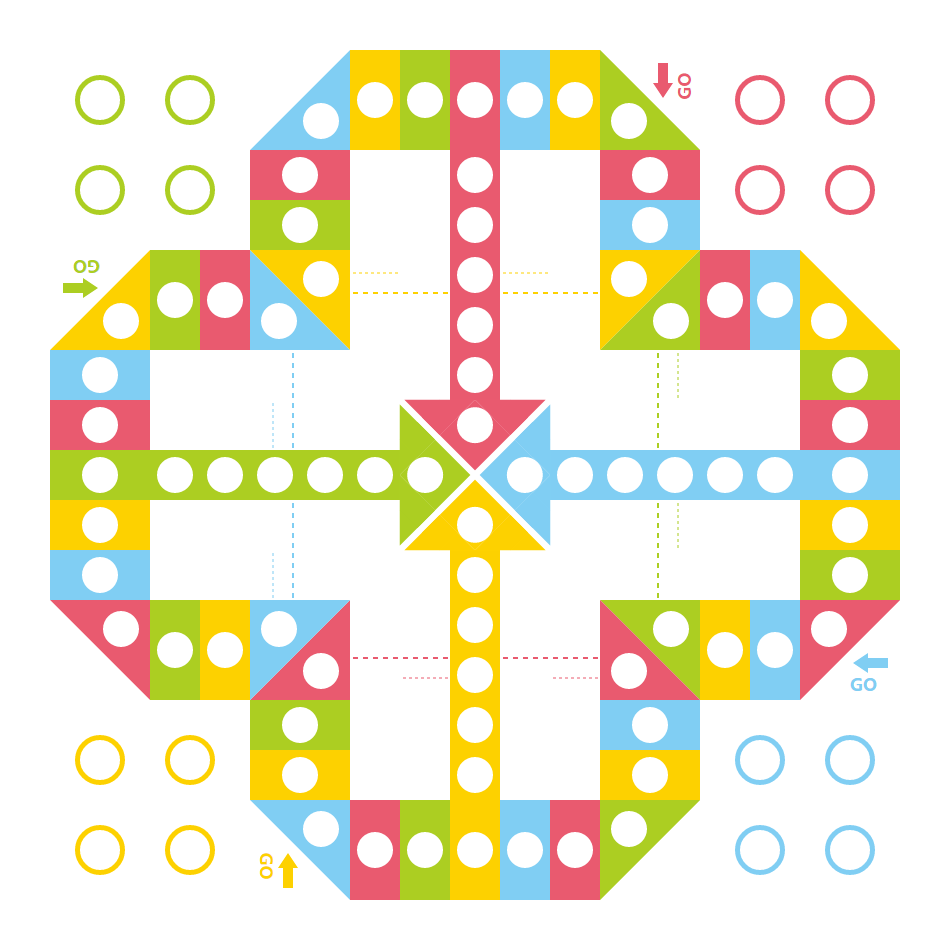
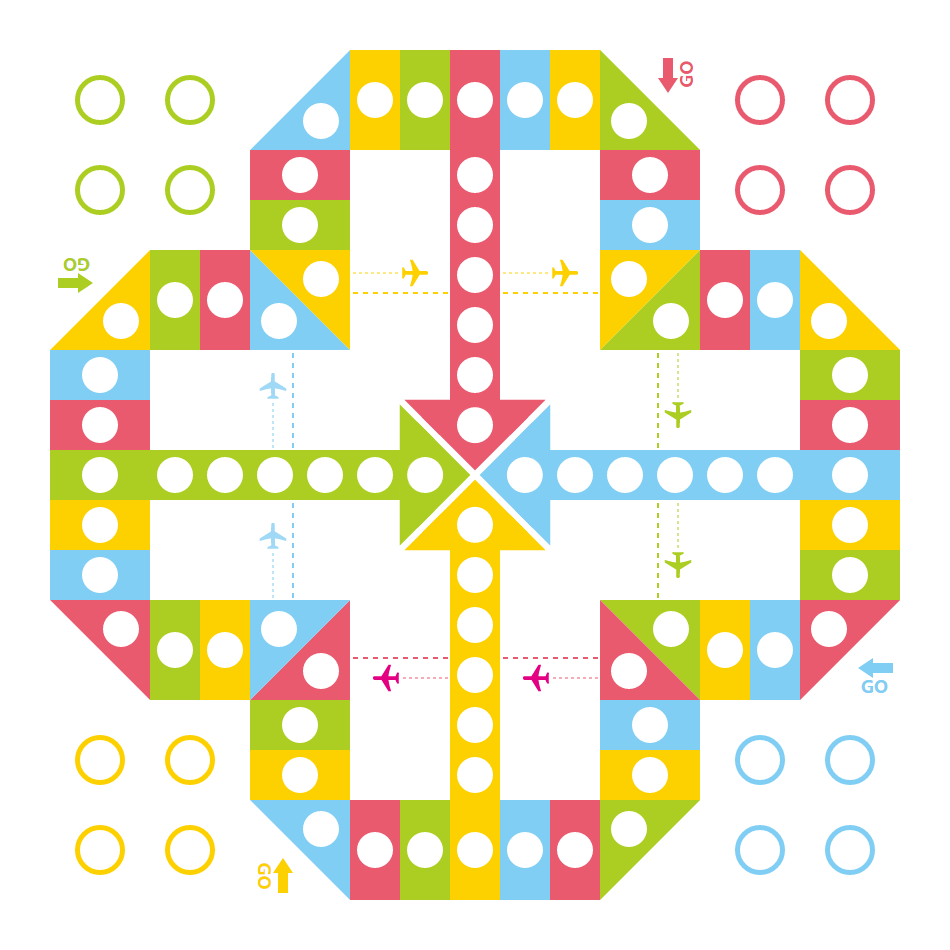
update the position of arrows & go

diff --git a/chessboard.html b/chessboard.html
@@ -30,10 +30,10 @@
         <path stroke-dasharray="5, 5" d="M235 295 235 540" stroke='#80cef3' />
         <path stroke-dasharray="5, 5" d="M600 295 600 540" stroke='#acce22' />
      </g>
-      <use x="-15" y="-325" xlink:href="#arrow" fill="#e95a6f" transform="rotate(90 150 160)"></use>
-      <use x="-5" y="200" xlink:href="#arrow" fill="#acce22"></use>
-      <use x="-660" y="200" xlink:href="#arrow" fill="#fdd100" transform="rotate(270 90 90)"></use>
-      <use x="-480" y="-455" xlink:href="#arrow" fill="#80cef3" transform="rotate(180 180 90)"></use>
+      <use x="-20" y="-330" xlink:href="#arrow" fill="#e95a6f" transform="rotate(90 150 160)"></use>
+      <use x="-10" y="195" xlink:href="#arrow" fill="#acce22"></use>
+      <use x="-665" y="195" xlink:href="#arrow" fill="#fdd100" transform="rotate(270 90 90)"></use>
+      <use x="-485" y="-460" xlink:href="#arrow" fill="#80cef3" transform="rotate(180 180 90)"></use>
     </svg>
     <img class="small-plane" src="svg/small-plane-blue.svg" style="top: 322px; left: 209px;" />
     <img class="small-plane" src="svg/small-plane-blue.svg" style="top: 472px; left: 209px;" />

diff --git a/index.js b/index.js
@@ -456,26 +456,26 @@ $(document).ready(function(){
   var arrows = [
     {
       color: 'green',
-      top: 203,
-      left: 0,
+      top: 201,
+      left: -10,
       rotate: 'rotate(180deg)'
     },
     {
       color: 'red',
-      top: 12,
-      left: 610,
+      top: 0,
+      left: 612,
       rotate: 'rotate(-90deg)'
     },
     {
       color: 'yellow',
-      top: 815,
-      left: 190,
+      top: 825,
+      left: 188,
       rotate: 'rotate(90deg)'
     },
     {
       color: 'blue',
-      top: 623,
-      left: 800,
+      top: 625,
+      left: 811,
       rotate: 'rotate(0deg)'
     }
   ]
